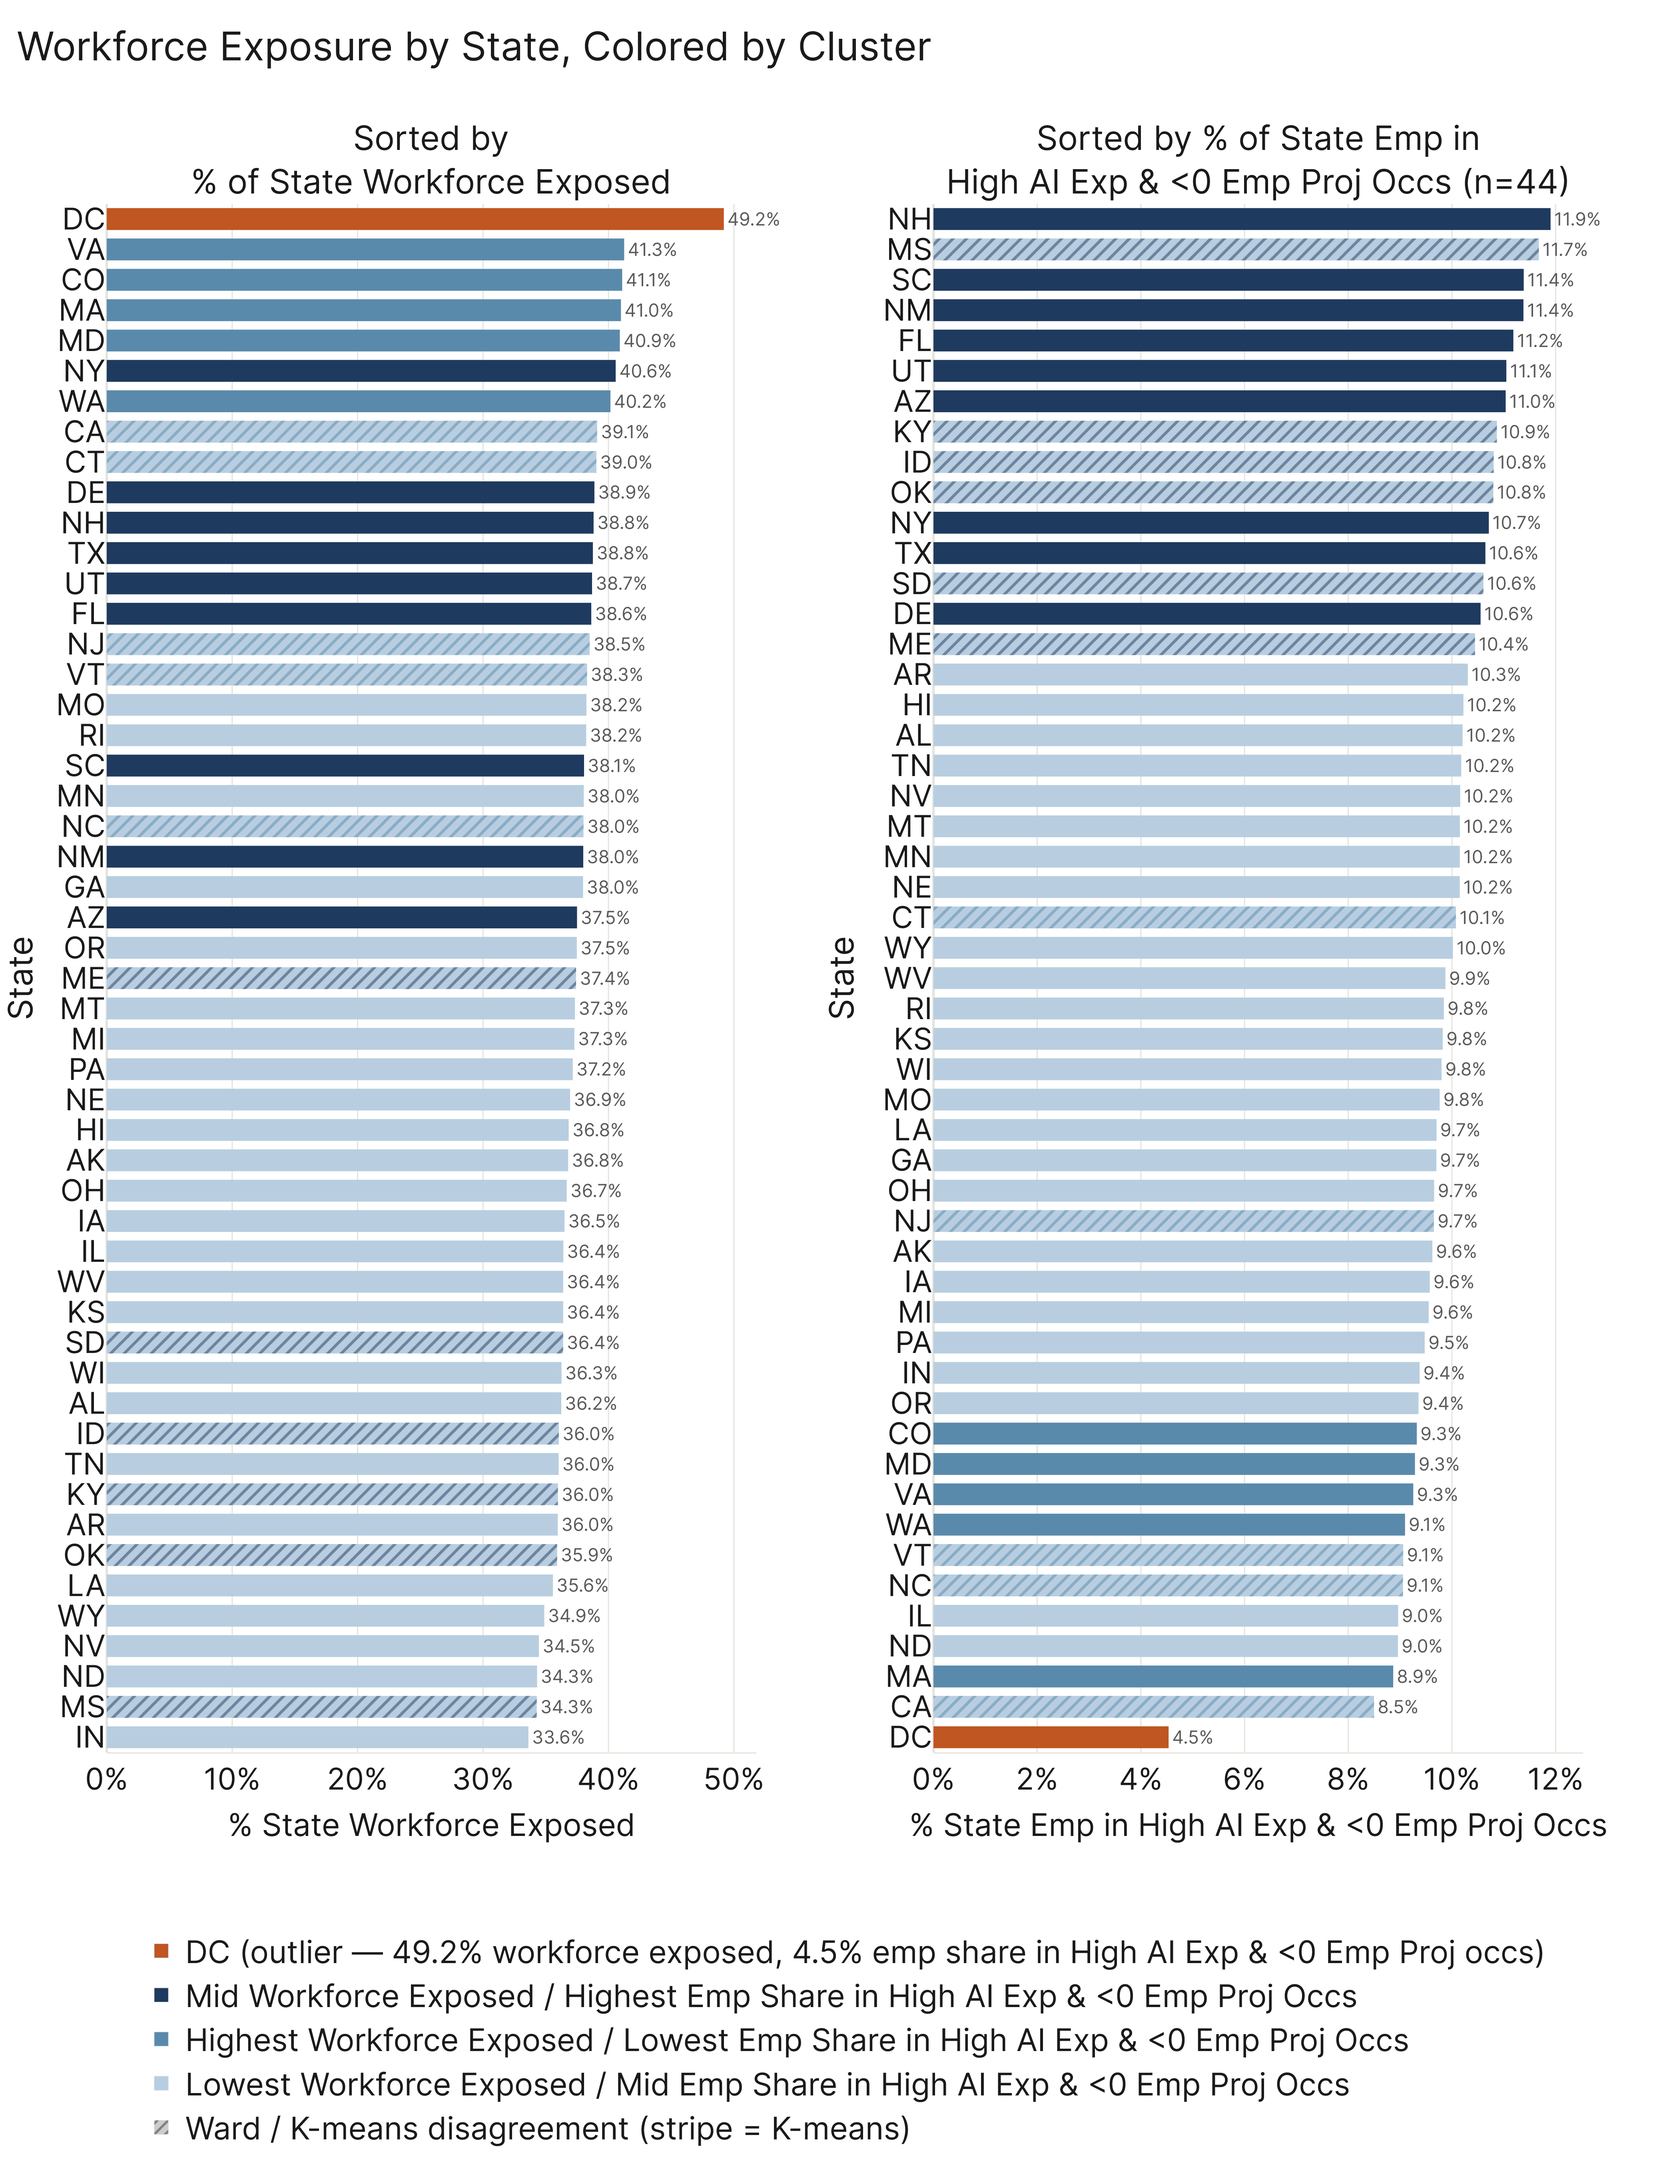
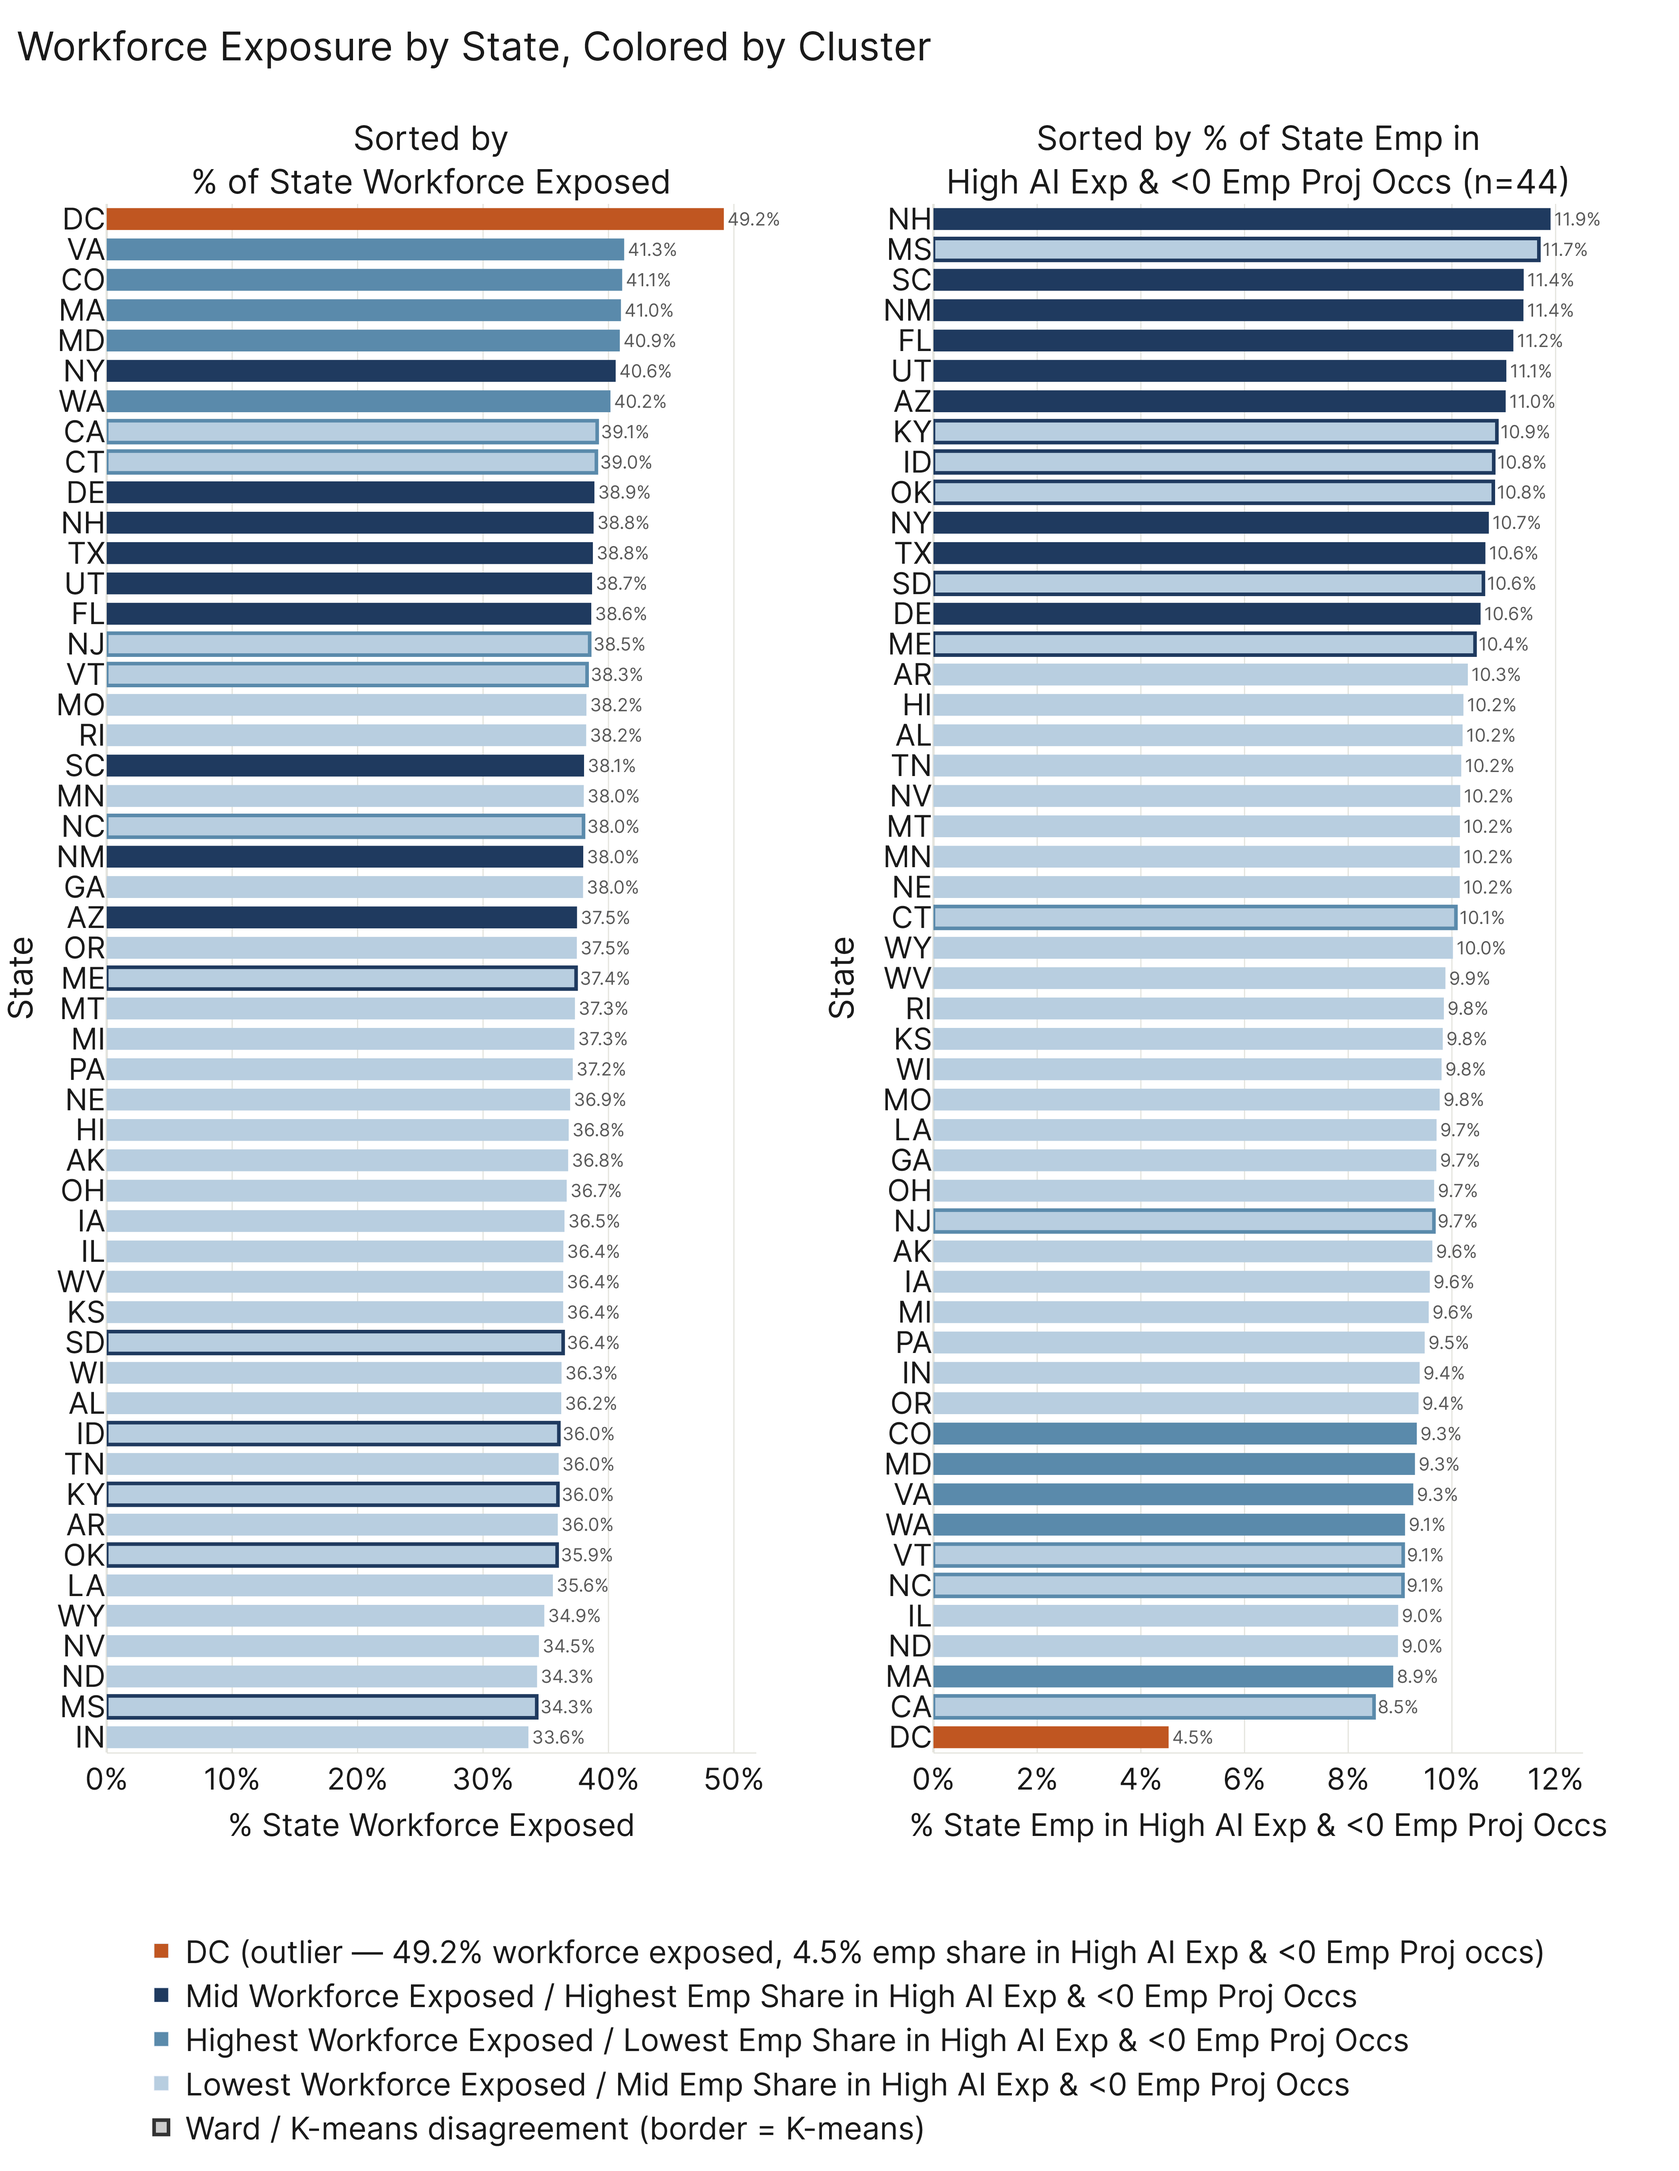
part_3: replace hatch stripes with K-means colored border on state map
Match the appendix state_clusters_each_ranked treatment: disagreement
states now get a thick solid border (linewidth=2.0) in the K-means
cluster color instead of diagonal hatching. The border color reads as
the exact hex from the legend swatch, not the visual blend you get
from a thin hatch over a different-color fill. Legend swatch updated
to match.

Also regenerated state_clusters_each_ranked.png to capture the same
border treatment in the appendix bar chart (border code was committed
in eb91326 with the other-chart simplification; this picks up the
regenerated image).

diff --git a/analysis/paper/results/part_3/run.py b/analysis/paper/results/part_3/run.py
@@ -1176,6 +1176,10 @@ def build_state_clusters_map(results: Path, figures: Path) -> None:
 
     BORDER_COLOR = "white"
     BORDER_W = 0.5
+    # Thick colored border used for disagreement states. K-means cluster
+    # color, solid (not a pattern), so the frame reads as the exact hex
+    # of the legend swatch rather than a visually-averaged blend.
+    DISAGREE_BORDER_W = 2.0
 
     def _draw(gdf_part, ax):
         for _, row in gdf_part.iterrows():
@@ -1184,20 +1188,18 @@ def build_state_clusters_map(results: Path, figures: Path) -> None:
             if cid is None:
                 continue
             ward_fill = cluster_color.get(int(cid), "#cccccc")
-            # Base polygon — ward color fill.
-            gpd.GeoSeries([row.geometry]).plot(
-                ax=ax, color=ward_fill, edgecolor=BORDER_COLOR,
-                linewidth=BORDER_W,
-            )
-            # Overlay: if this state is a Ward/K-means disagreement, draw
-            # diagonal stripes in the K-means cluster's color on top.
             if postal in disagree_lookup:
+                # Disagreement state — ward color fill, K-means color border.
                 km_cid = disagree_lookup[postal]
                 km_fill = cluster_color.get(km_cid, "#777777")
                 gpd.GeoSeries([row.geometry]).plot(
-                    ax=ax, facecolor="none",
-                    edgecolor=km_fill,
-                    hatch="////",
+                    ax=ax, color=ward_fill, edgecolor=km_fill,
+                    linewidth=DISAGREE_BORDER_W,
+                )
+            else:
+                # Agreement state — ward color fill, thin white border.
+                gpd.GeoSeries([row.geometry]).plot(
+                    ax=ax, color=ward_fill, edgecolor=BORDER_COLOR,
                     linewidth=BORDER_W,
                 )
 
@@ -1257,11 +1259,13 @@ def build_state_clusters_map(results: Path, figures: Path) -> None:
             Patch(facecolor=cluster_color[cid], edgecolor="white",
                   label=_short_cluster_label(cluster_names[cid]))
         )
-    # Add disagreement entry — use a neutral gray hatch swatch so the
-    # reader doesn't read it as one of the actual clusters.
+    # Add disagreement entry — neutral gray swatch with a thick dark
+    # border, mirroring the per-state border treatment so the reader
+    # knows what the colored frames mean.
     legend_handles.append(
-        Patch(facecolor="#cccccc", edgecolor="#555555", hatch="////",
-              label="Ward / K-means disagreement\n(stripe color = K-means)")
+        Patch(facecolor="#cccccc", edgecolor="#333333",
+              linewidth=DISAGREE_BORDER_W,
+              label="Ward / K-means disagreement\n(border color = K-means)")
     )
     # Legend goes BELOW the map, centered horizontally — matches the
     # Plotly version's vertical legend at x=0.5, xanchor=center, y=0.18.
